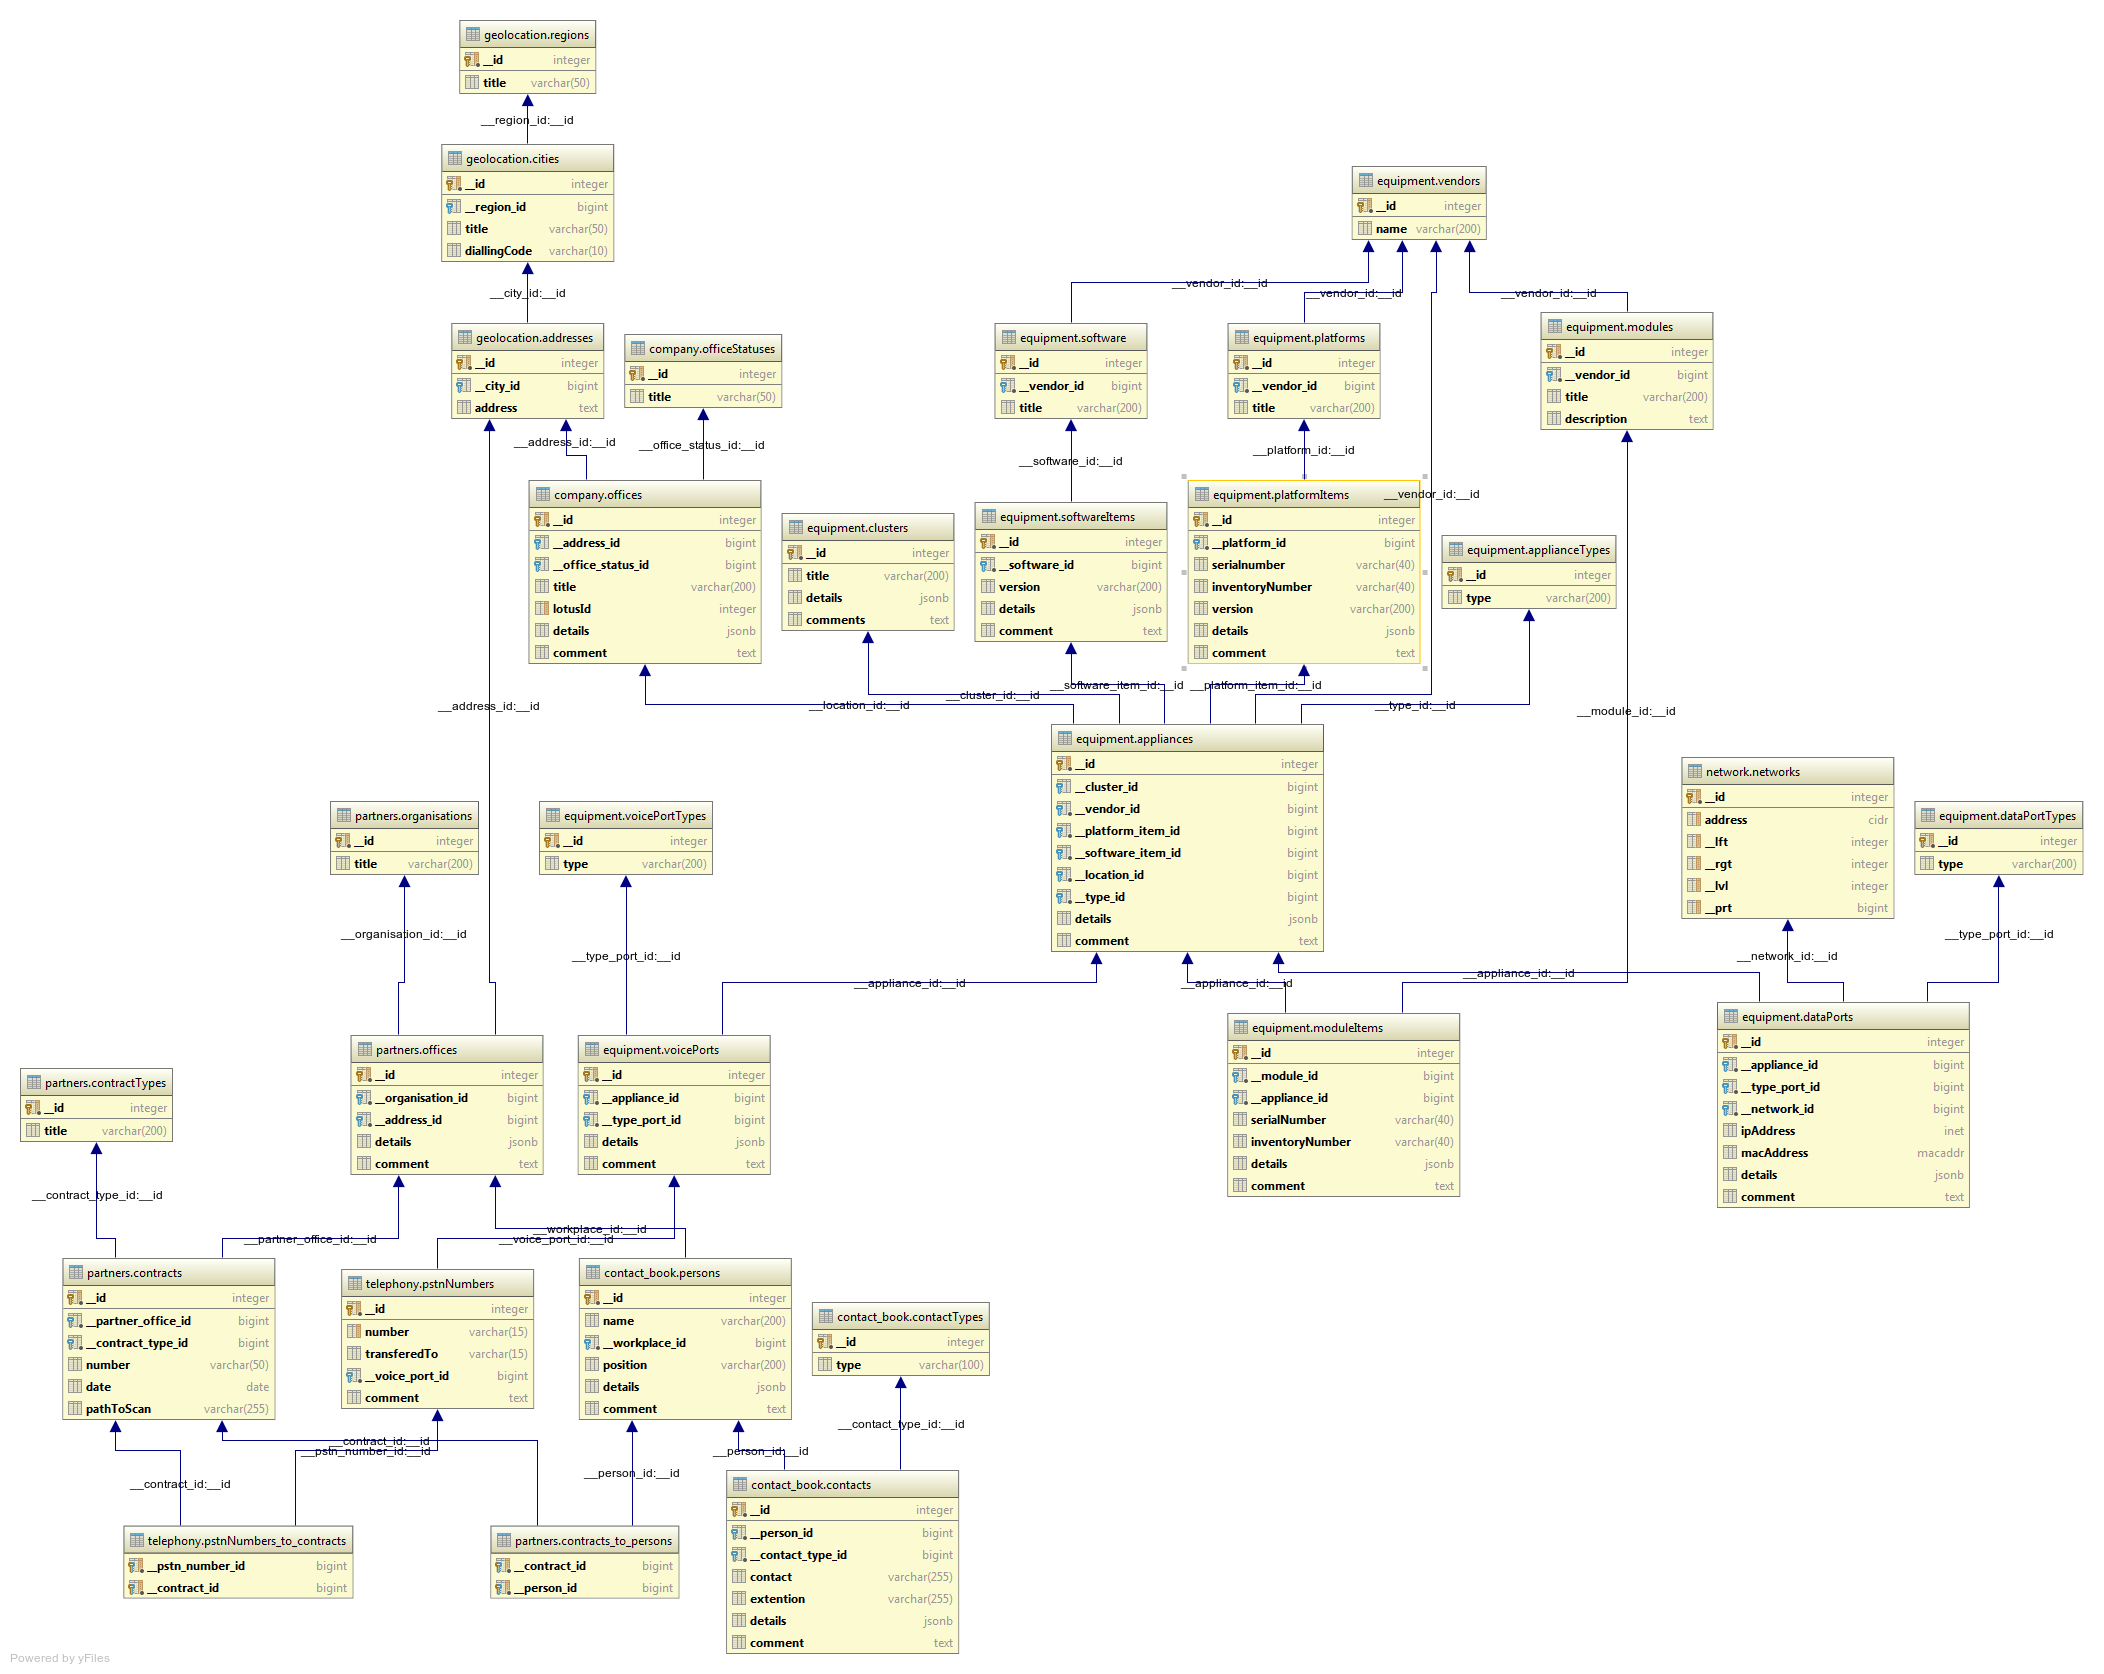
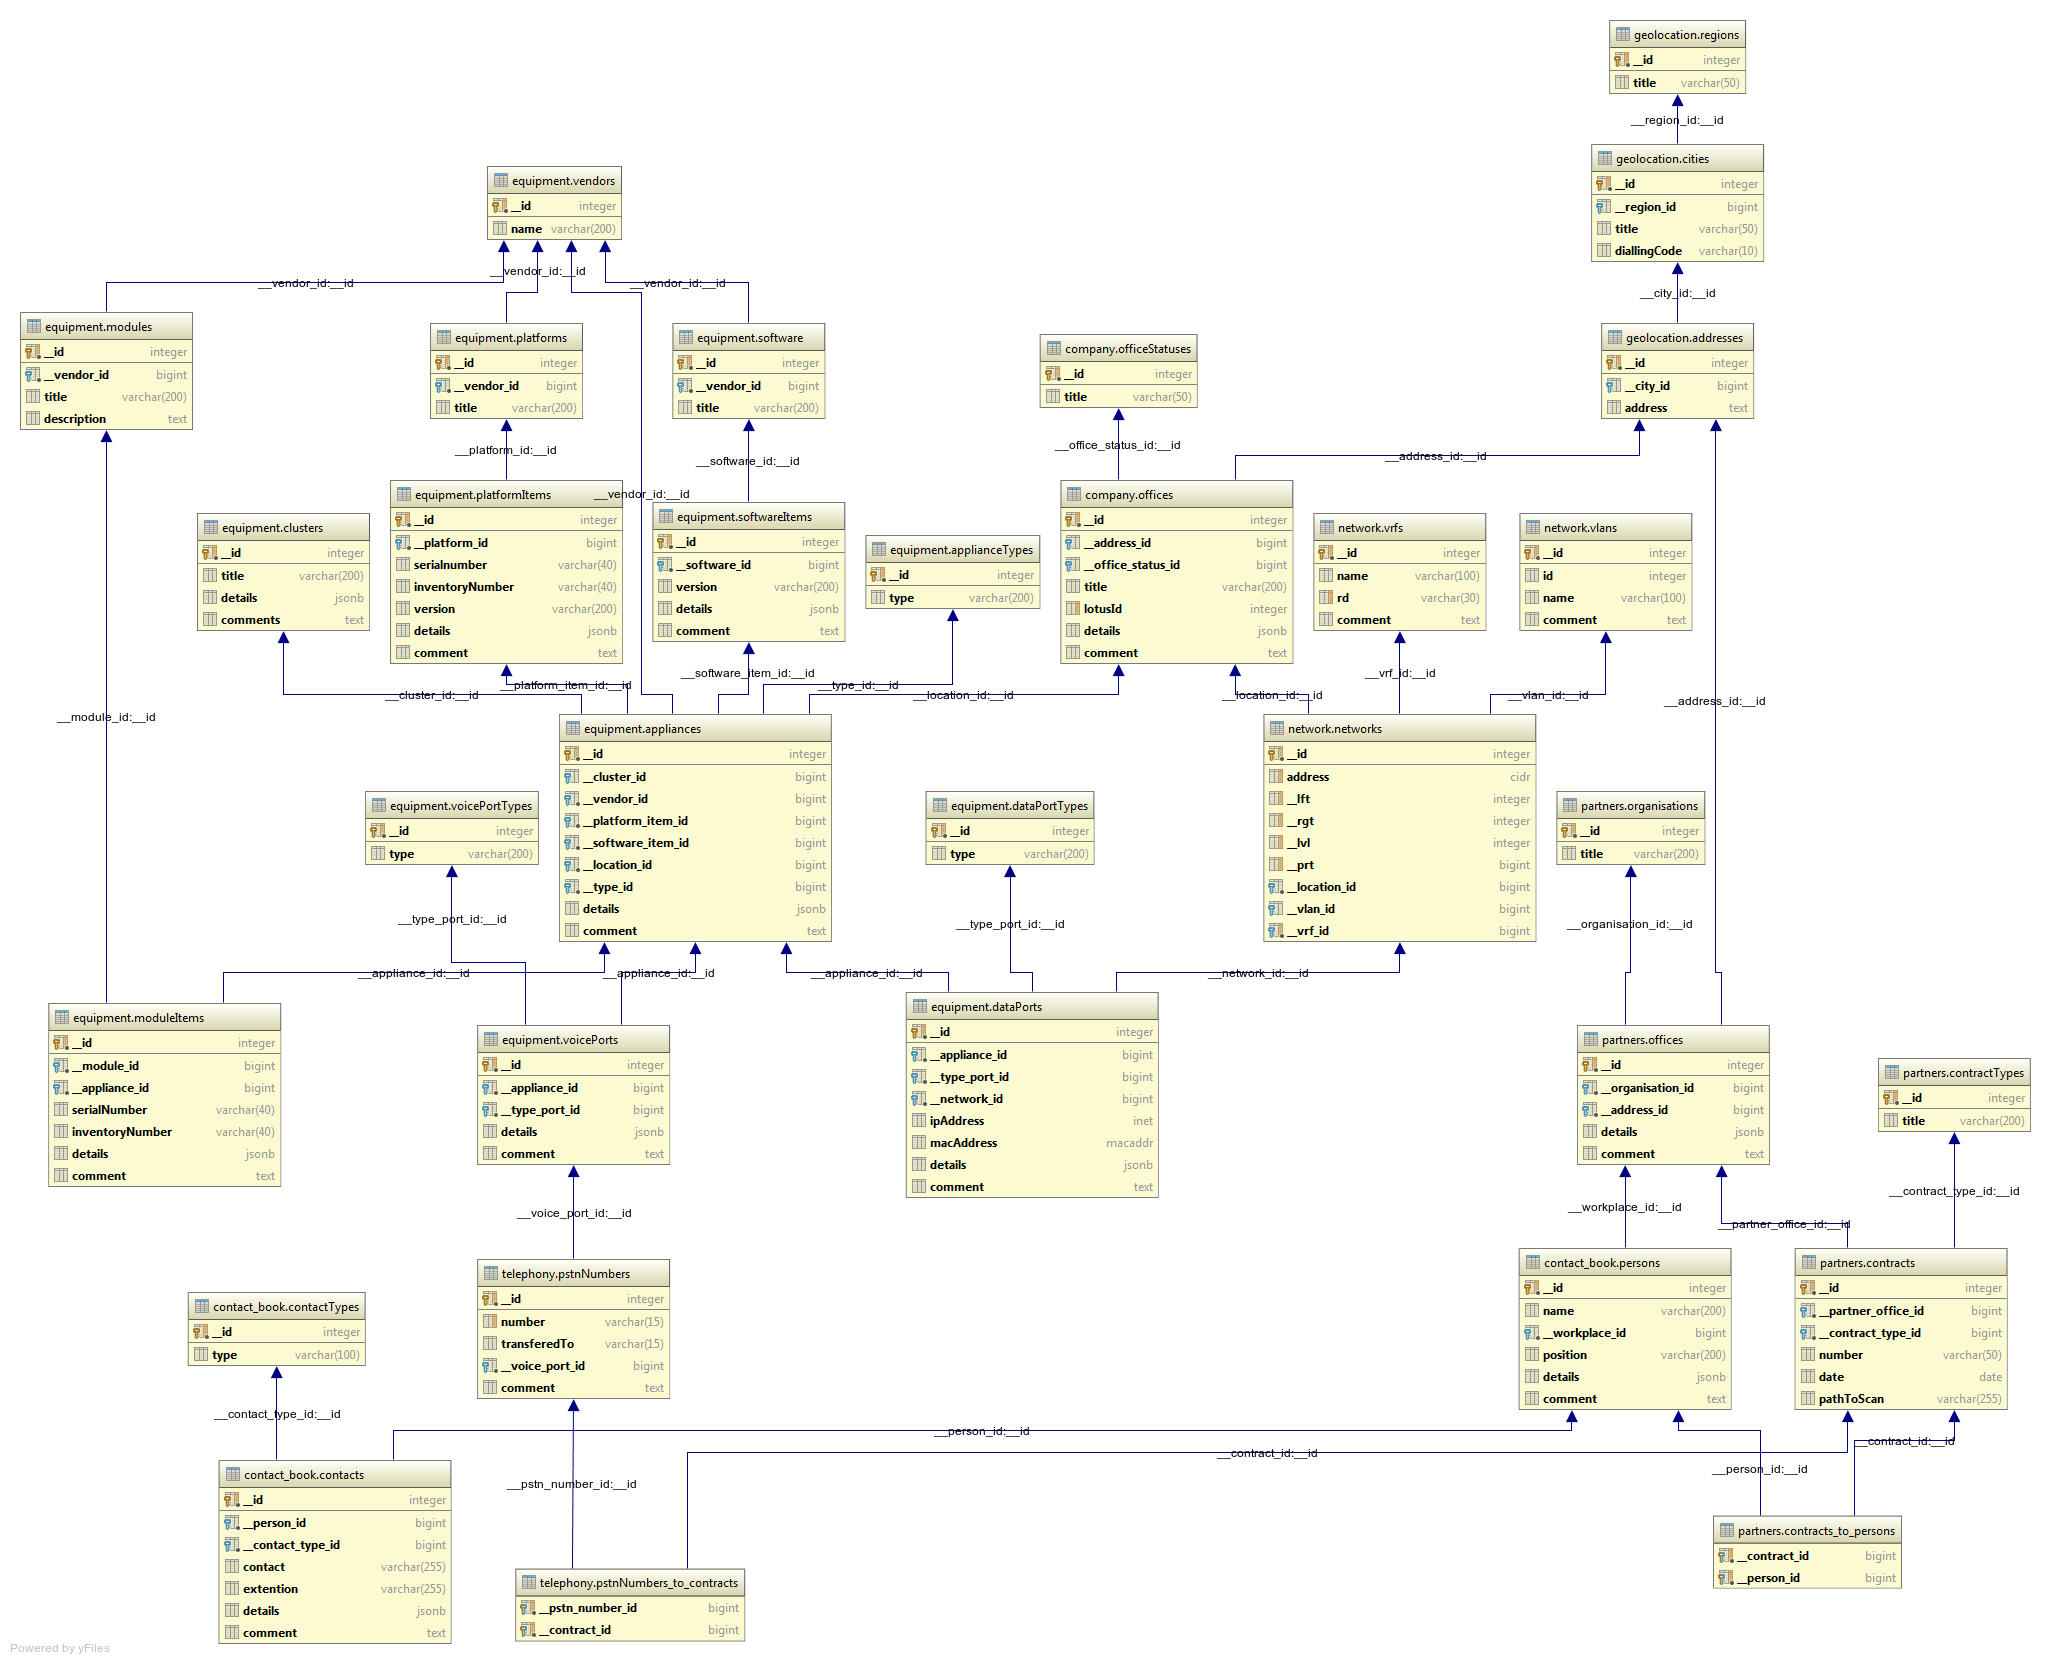
готовы миграции для добавления таблиц vlans vrfs и изменения таблицы networks. Обновил картинку схемы БД.

diff --git a/protected/Migrations/m_1491820532_createVlansVrfsTables.php b/protected/Migrations/m_1491820532_createVlansVrfsTables.php
@@ -1,0 +1,185 @@
+<?php
+
+namespace App\Migrations;
+
+use T4\Core\Exception;
+use T4\Orm\Migration;
+
+class m_1491820532_createVlansVrfsTables
+    extends Migration
+{
+
+    public function up()
+    {
+        if ($this->db->query('SELECT COUNT(1) FROM network."networks"')->fetchScalar() > 0) {
+            throw new Exception('Before apply this migration you need delete all records from network."networks" table in main DB.');
+        }
+        $table['network.vlans'] = 'CREATE TABLE network."vlans" (
+            __id SERIAL,
+            id INT,
+            name VARCHAR(100),
+            comment TEXT,
+            PRIMARY KEY (__id),
+            CONSTRAINT valid_valn_id CHECK (id > 0 AND id < 4095)
+        )';
+        $table['network.vrfs'] = 'CREATE TABLE network."vrfs" (
+            __id SERIAL,
+            name VARCHAR(100),
+            rd VARCHAR(30) UNIQUE,
+            comment TEXT,
+            PRIMARY KEY (__id)
+        )';
+
+        $column['__location_id'] = 'ALTER TABLE network."networks" ADD COLUMN __location_id BIGINT NOT NULL ';
+        $column['__vlan_id'] = 'ALTER TABLE network."networks" ADD COLUMN __vlan_id BIGINT';
+        $column['__vrf_id'] = 'ALTER TABLE network."networks" ADD COLUMN __vrf_id BIGINT';
+
+        $constrain['fk_location_id'] = 'ALTER TABLE network."networks" ADD CONSTRAINT fk_location_id FOREIGN KEY ("__location_id")
+            REFERENCES company."offices" (__id)
+            ON UPDATE CASCADE
+            ON DELETE RESTRICT';
+        $constrain['fk_vlan_id'] = 'ALTER TABLE network."networks" ADD CONSTRAINT fk_vlan_id FOREIGN KEY ("__vlan_id")
+            REFERENCES network."vlans" (__id)
+            ON UPDATE CASCADE
+            ON DELETE RESTRICT';
+        $constrain['fk_vrf_id'] = 'ALTER TABLE network."networks" ADD CONSTRAINT fk_vrf_id FOREIGN KEY ("__vrf_id")
+            REFERENCES network."vrfs" (__id)
+            ON UPDATE CASCADE
+            ON DELETE RESTRICT';
+        $constrain['not_null_vrf_id'] = 'ALTER TABLE network."networks" ALTER COLUMN __vrf_id SET NOT NULL ';
+        $constrain['unique_address_vrf'] = 'ALTER TABLE network."networks" ADD CONSTRAINT unique_address_vrf UNIQUE (address, __vrf_id)';
+
+        /**
+         * create tables
+         */
+        foreach ($table as $key => $query) {
+            echo 'main DB: creating ' . $key . ' table...' . "\n";
+            if (true === $this->db->execute($query)) {
+                echo 'Done!' . "\n";
+            }
+        }
+
+        /**
+         * add columns to networks table
+         */
+        foreach ($column as $key => $query) {
+            echo 'main DB: creating ' . $key . ' column...' . "\n";
+            if (true === $this->db->execute($query)) {
+                echo 'Done!' . "\n";
+            }
+        }
+
+        /**
+         * add constraints in networks table
+         */
+        foreach ($constrain as $key => $query) {
+            echo 'main DB: creating ' . $key . ' constraint...' . "\n";
+            if (true === $this->db->execute($query)) {
+                echo 'Done!' . "\n";
+            }
+        }
+
+        //insert global VRF into VRFs table
+        echo 'main DB: inserting initial data into VRF table' . "\n";
+        $this->db->execute('INSERT INTO network.vrfs (name, rd) VALUES (:name, :rd)', [':name' => 'global', 'rd' => ':']);
+        echo 'Done!' . "\n";
+
+        //============================ for test DB =========================
+        $this->setDb('phpUnitTest');
+        /**
+         * create tables
+         */
+        foreach ($table as $key => $query) {
+            echo 'test DB: creating ' . $key . ' table...' . "\n";
+            if (true === $this->db->execute($query)) {
+                echo 'Done!' . "\n";
+            }
+        }
+
+        /**
+         * add columns to networks table
+         */
+        foreach ($column as $key => $query) {
+            echo 'test DB: creating ' . $key . ' column...' . "\n";
+            if (true === $this->db->execute($query)) {
+                echo 'Done!' . "\n";
+            }
+        }
+
+        /**
+         * add constraints in networks table
+         */
+        foreach ($constrain as $key => $query) {
+            echo 'test DB: creating ' . $key . ' constraint...' . "\n";
+            if (true === $this->db->execute($query)) {
+                echo 'Done!' . "\n";
+            }
+        }
+
+        //insert global VRF into VRFs table
+        echo 'test DB: inserting initial data into VRF table' . "\n";
+        $this->db->execute('INSERT INTO network.vrfs (name, rd) VALUES (:name, :rd)', [':name' => 'global', 'rd' => ':']);
+        echo 'Done!' . "\n";
+    }
+
+    public function down()
+    {
+        $column['__location_id'] = 'ALTER TABLE network."networks" DROP COLUMN __location_id';
+        $column['__vlan_id'] = 'ALTER TABLE network."networks" DROP COLUMN __vlan_id';
+        $column['__vrf_id'] = 'ALTER TABLE network."networks" DROP COLUMN __vrf_id';
+
+        $constrain['fk_location_id'] = 'ALTER TABLE network."networks" DROP CONSTRAINT fk_location_id';
+        $constrain['fk_vlan_id'] = 'ALTER TABLE network."networks" DROP CONSTRAINT fk_vlan_id';
+        $constrain['fk_vrf_id'] = 'ALTER TABLE network."networks" DROP CONSTRAINT fk_vrf_id';
+        $constrain['unique_address_vrf'] = 'ALTER TABLE network."networks" DROP CONSTRAINT unique_address_vrf';
+        $constrain['not_null_vrf_id'] = 'ALTER TABLE network."networks" ALTER COLUMN __vrf_id DROP NOT NULL ';
+
+
+        echo 'Dropping constraints on main DB' . "\n";
+        foreach ($constrain as $key => $query) {
+            echo 'dropping ' . $key . ' constraint...' . "\n";
+            if (true === $this->db->execute($query)) {
+                echo 'Done!' . "\n";
+            }
+        }
+
+        echo 'Dropping columns on main DB' . "\n";
+        foreach ($column as $key => $query) {
+            echo 'dropping ' . $key . ' column...' . "\n";
+            if (true === $this->db->execute($query)) {
+                echo 'Done!' . "\n";
+            }
+        }
+
+
+        echo 'Dropping tables on main DB...' . "\n";
+        $this->dropTable('network.vrfs');
+        $this->dropTable('network.vlans');
+
+        //================for test DB====================
+        $this->setDb('phpUnitTest');
+
+        echo 'Dropping constraints on test DB' . "\n";
+        foreach ($constrain as $key => $query) {
+            echo 'dropping ' . $key . ' constraint...' . "\n";
+            if (true === $this->db->execute($query)) {
+                echo 'Done!' . "\n";
+            }
+        }
+
+        echo 'Dropping columns on test DB' . "\n";
+        foreach ($column as $key => $query) {
+            echo 'dropping ' . $key . ' column...' . "\n";
+            if (true === $this->db->execute($query)) {
+                echo 'Done!' . "\n";
+            }
+        }
+
+
+        echo 'Dropping tables on test DB...' . "\n";
+        $this->dropTable('network.vrfs');
+        $this->dropTable('network.vlans');
+
+    }
+    
+}

diff --git a/protected/Migrations/m_1491806578_alterNetworksTable.php b/protected/Migrations/m_1491806578_alterNetworksTable.php
@@ -1,0 +1,26 @@
+<?php
+
+namespace App\Migrations;
+
+use T4\Orm\Migration;
+
+class m_1491806578_alterNetworksTable
+    extends Migration
+{
+
+    public function up()
+    {
+        $this->db->execute('ALTER TABLE network."networks" DROP CONSTRAINT networks_address_key');
+        //for test DB
+        $this->setDb('phpUnitTest');
+        $this->db->execute('ALTER TABLE network."networks" DROP CONSTRAINT networks_address_key');
+    }
+
+    public function down()
+    {
+        $this->db->execute('ALTER TABLE network."networks" ADD CONSTRAINT networks_address_key UNIQUE (address)');
+        //for test DB
+        $this->setDb('phpUnitTest');
+        $this->db->execute('ALTER TABLE network."networks" ADD CONSTRAINT networks_address_key UNIQUE (address)');
+    }
+}
